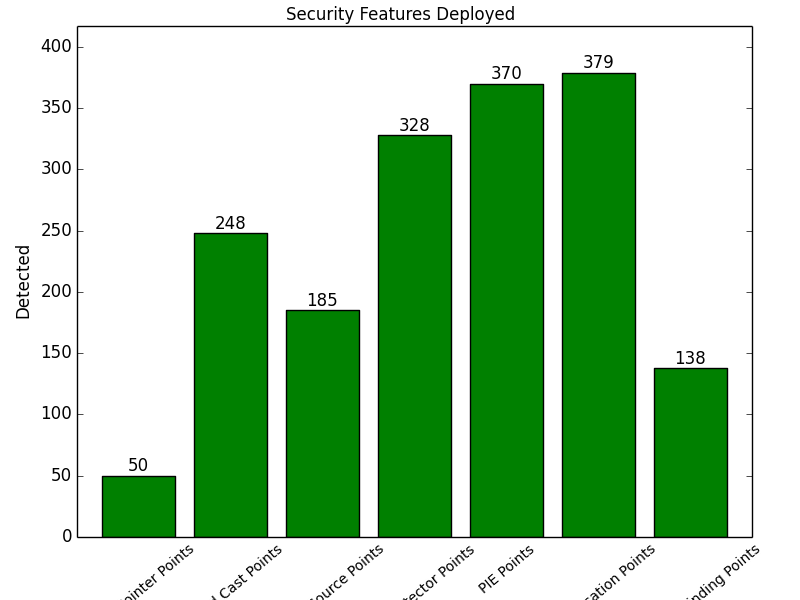
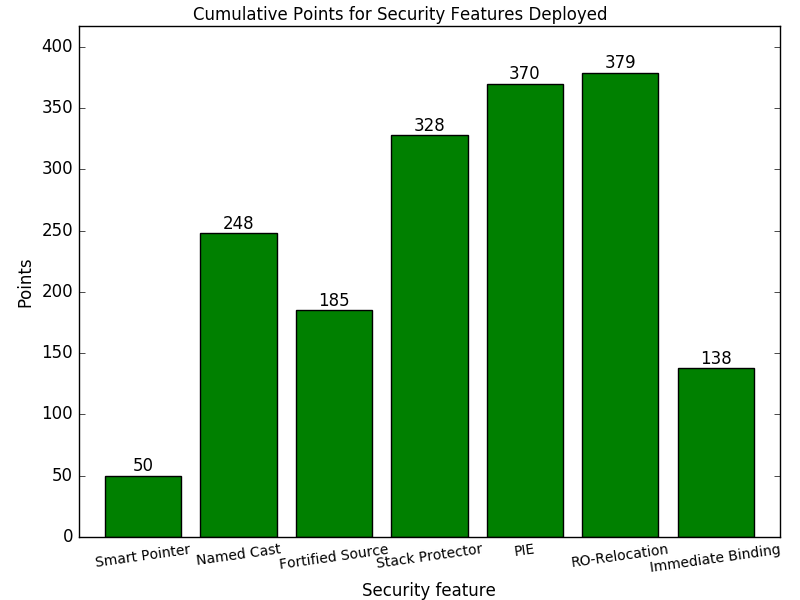
Fixed graph issues.

diff --git a/infra/src/graph_generator.py b/infra/src/graph_generator.py
@@ -12,7 +12,7 @@ class GraphGenerator:
    def __init__(self, data_file, output_file, graph_type,
                 title, x_axis_label, y_axis_label, render_local,
                 groups, default_color, num_bins, cycle_colors,
-                slant):
+                slant, fixed_bins):
       # Constructor arguments.
       self._data_file = data_file
       self._output_file = output_file
@@ -26,6 +26,7 @@ class GraphGenerator:
       self._num_bins = num_bins
       self._cycle_colors = cycle_colors
       self._slant = slant
+      self._fixed_bins = fixed_bins
 
       # Internal state.
       self._data = None
@@ -86,9 +87,9 @@ class GraphGenerator:
       axes.set_ylim([0, max_bar * 1.1])
       axes.margins(0.04, 0)
 
-      if self._slant:
+      if self._slant is not None:
          # Slant the x-axis labels.
-         plt.setp(axes.get_xticklabels(), fontsize=10, rotation=40)
+         plt.setp(axes.get_xticklabels(), fontsize=10, rotation=self._slant)
 
       # Render graph.
       if self._render_local:
@@ -160,7 +161,11 @@ class GraphGenerator:
 
       # Generate data.
       data = self._data[:,0].astype(np.float)
-      values, base = np.histogram(data, bins=self._num_bins)
+      if self._fixed_bins:
+         bins = range(self._num_bins + 1)
+      else:
+         bins = self._num_bins
+      values, base = np.histogram(data, bins=bins)
       cumulative = np.cumsum(values).astype(np.float)
       cumulative /= cumulative[-1]
       base = base[:-1]
@@ -213,6 +218,8 @@ if __name__ == '__main__':
    parser.add_argument('--cycle-colors', help='use multiple colors for bar graph',
                        action='store_true')
    parser.add_argument('--slant', help='slant x-axis labels in bar graph',
+                       type=int, nargs='?', default=None, const=40)
+   parser.add_argument('--fixed-bins', help='Use bins from range(0, N, 1)',
                        action='store_true')
    args = parser.parse_args()
 
@@ -224,5 +231,5 @@ if __name__ == '__main__':
    g = GraphGenerator(args.data_file, args.output_file, args.graph_type,
                       args.title, args.x_axis_label, args.y_axis_label,
                       render_local, args.groups, args.color, args.num_bins,
-                      args.cycle_colors, args.slant)
+                      args.cycle_colors, args.slant, args.fixed_bins)
    g.run()
